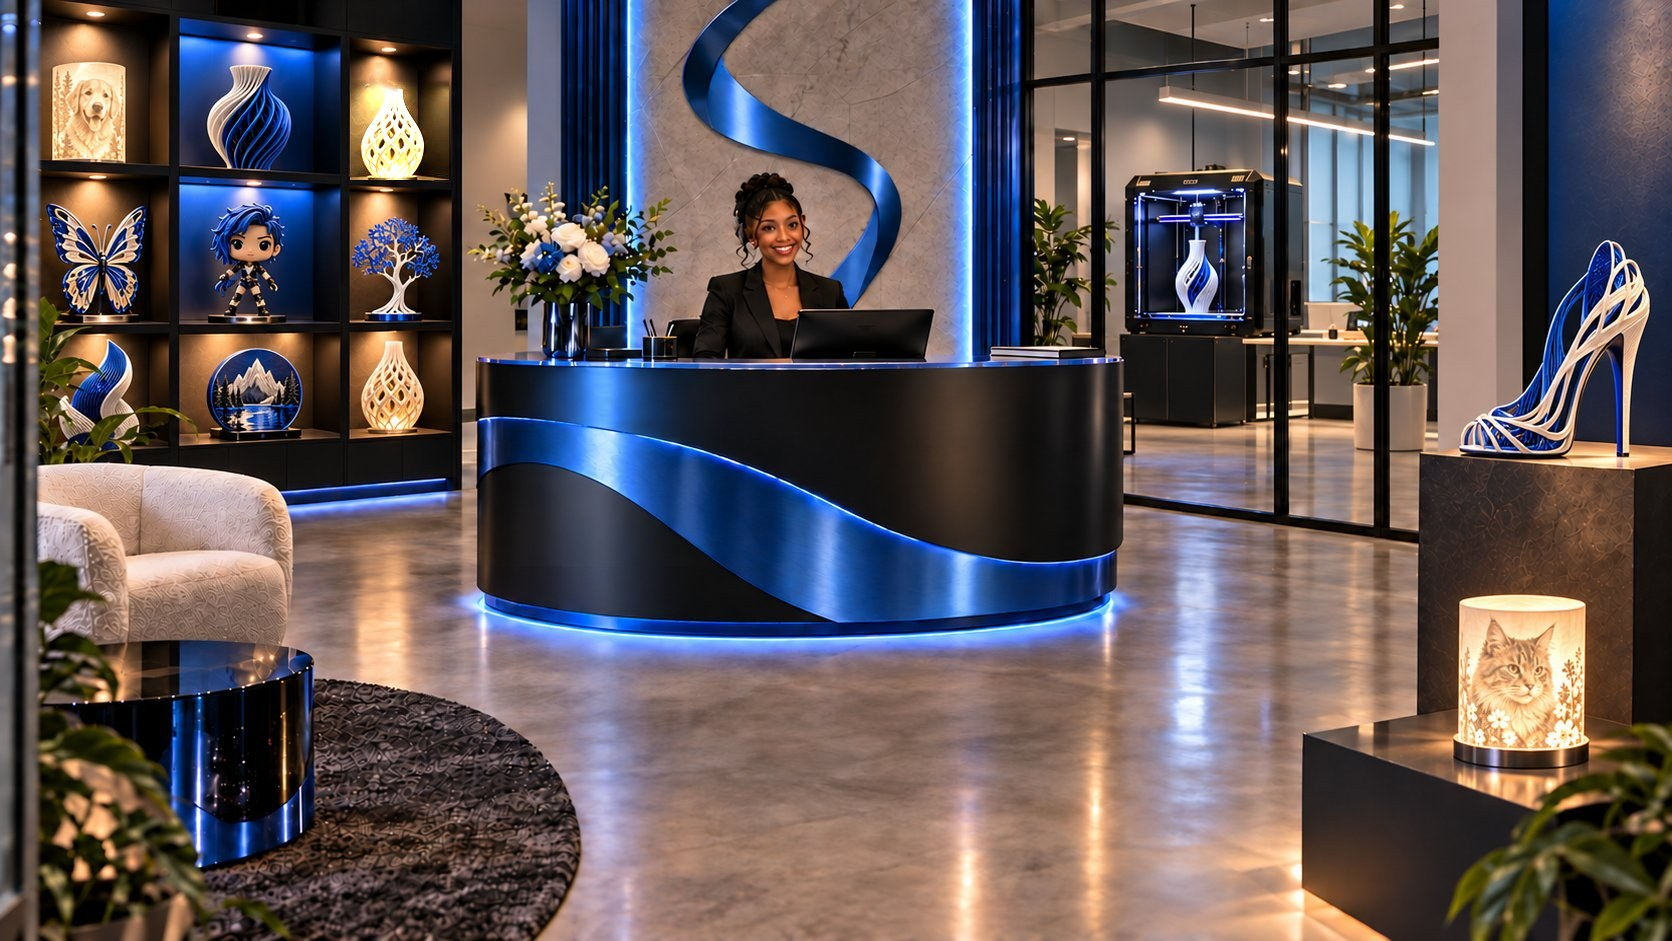
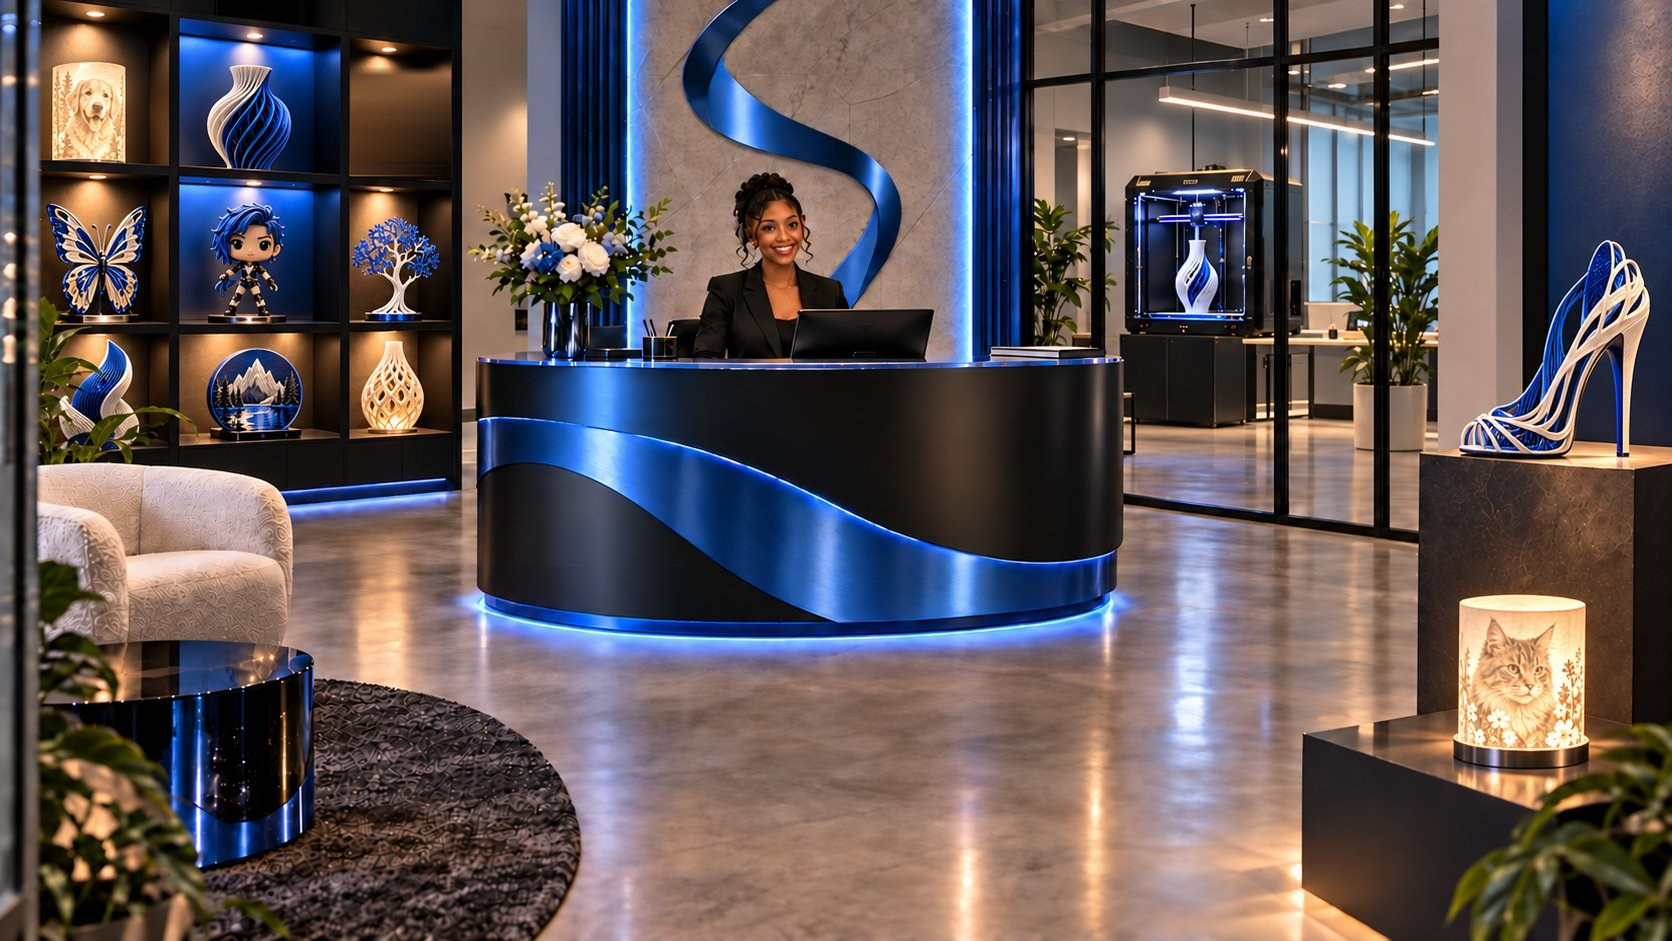
Allure Fusions: empty the shelf cell (no duplicate vase), lower desk title

Changed region(s): [[0.1866, 0.0616, 0.2799, 0.2157]]

diff --git a/suites/styles.css b/suites/styles.css
@@ -351,7 +351,7 @@ body{-webkit-font-smoothing:antialiased;-moz-osx-font-smoothing:grayscale}
 /* Owner choice: desks show the business title only; taglines are hidden (remove this line to show them). */
 .suite-sign p{display:none!important}
 .reception-scene[data-suite="217"]{--desk-y:56%;--sign-w:min(35%,560px)}
-.reception-scene[data-suite="305"]{--desk-x:57%;--desk-y:42.5%;--sign-w:17%}
+.reception-scene[data-suite="305"]{--desk-x:57%;--desk-y:45%;--sign-w:17%}
 .reception-scene[data-suite="412"]{--desk-x:42%;--desk-y:51%;--sign-w:24%}
 .suite-plaque{position:absolute;z-index:3;left:50%;bottom:3%;transform:translateX(-50%);padding:.5rem 1rem;background:rgba(10,9,12,.82);border:1px solid var(--suite-accent);color:var(--suite-accent);font-size:.6rem;letter-spacing:.22em;white-space:nowrap}
 @media (max-width:560px){.suite-sign{top:4%!important;transform:translateX(-50%);width:92%;background:rgba(10,9,12,.55);padding:.6rem .8rem}.suite-plaque{display:none}}

diff --git a/build/fix_fusions.py b/build/fix_fusions.py
@@ -1,49 +1,46 @@
-# Removes the duplicate heel from the Allure Fusions shelf (top-right cell)
-# by placing a copy of the white lattice vase from the lower shelf there.
-# The large heel by the entrance stays as the feature piece.
+# Removes the duplicate heel from the Allure Fusions shelf (top-right cell).
+# The large heel by the entrance stays as the feature piece. The shelf cell is
+# left empty with its warm backlight (no copied object, so nothing repeats).
 # Usage: python build/fix_fusions.py src/img-original/allure-fusions.jpg img/allure-fusions.jpg
+#
+# Each row of the cell is rebuilt by blending the cell's own left and right
+# edges (smooth lighting), with the original spotlight glow kept on top.
 import sys
 import cv2
 import numpy as np
 
 src, out = sys.argv[1], sys.argv[2]
 img = cv2.imread(src)
-s = img.shape[1] / 1672  # coordinates below are for the 1672px-wide image
+s = img.shape[1] / 1672
 
 def px(v):
     return int(round(v * s))
 
-# Lower-right cell holding the lattice vase, and the matching area of the heel cell.
-x0, x1 = px(350), px(449)
-sy0, sy1 = px(331), px(432)
-ty1 = px(180)
-ty0 = ty1 - (sy1 - sy0)
-patch = img[sy0:sy1, x0:x1].astype(np.float32)
-dest = img[ty0:ty1, x0:x1].astype(np.float32)
+x0, x1 = px(351), px(447)        # inside of the shelf cell
+y0, y1 = px(66), px(180)         # from under the spotlight down to the shelf surface
+edge = px(5)
+res = img.copy().astype(np.float32)
+left = img[y0:y1, x0:x0 + edge].astype(np.float32).mean(1)    # (rows, 3)
+right = img[y0:y1, x1 - edge:x1].astype(np.float32).mean(1)
+t = np.linspace(0, 1, x1 - x0)[None, :, None]
+fill = left[:, None, :] * (1 - t) + right[:, None, :] * t
 
-# The upper cell is lit more brightly; match the copy's overall level to it,
-# using the wall at the top-left of each cell (no objects there).
-ref_src = patch[4:20, 4:14].reshape(-1, 3).mean(0)
-ref_dst = dest[4:20, 4:14].reshape(-1, 3).mean(0)
-patch *= np.clip(ref_dst / np.maximum(ref_src, 1), 0.7, 1.6)
+# Keep the soft center glow from the spotlight: brighten the middle a little,
+# fading toward the bottom, matching the lit empty cells elsewhere.
+cx = (x1 - x0) / 2
+xs = np.arange(x1 - x0)[None, :]
+ys = np.arange(y1 - y0)[:, None]
+glow = np.exp(-((xs - cx) / ((x1 - x0) * 0.45)) ** 2) * np.clip(1 - ys / (y1 - y0), 0, 1)
+fill *= (1 + 0.12 * glow)[..., None]
 
-# Soft top edge so the copy fades into the wall above; hard edges elsewhere
-# line up with the shelf frame.
-alpha = np.ones(patch.shape[:2], np.float32)
-fade = px(10)
-alpha[:fade] = np.linspace(0, 1, fade)[:, None]
-res = img.copy()
-res[ty0:ty1, x0:x1] = (patch * alpha[..., None] + dest * (1 - alpha[..., None])).clip(0, 255).astype(np.uint8)
+# Light grain so the wall doesn't look airbrushed.
+rng = np.random.default_rng(7)
+fill += rng.normal(0, 2.0, fill.shape)
 
-# Clear whatever of the heel still shows above the copy.
-top = np.zeros(img.shape[:2], np.uint8)
-y_a, y_b = px(60), ty0 + fade
-cell = res[y_a:y_b, x0:x1]
-hsv = cv2.cvtColor(cell, cv2.COLOR_BGR2HSV)
-heel = ((hsv[..., 1] < 70) & (hsv[..., 2] > 170)) | ((hsv[..., 0] > 100) & (hsv[..., 0] < 130) & (hsv[..., 1] > 80))
-top[y_a:y_b, x0:x1][heel] = 255
-top = cv2.dilate(top, np.ones((7, 7), np.uint8))
-res = cv2.inpaint(res, top, 7, cv2.INPAINT_TELEA)
-
-cv2.imwrite(out, res, [cv2.IMWRITE_JPEG_QUALITY, 88])
+# Feather the top edge into the original spotlight area.
+alpha = np.ones((y1 - y0, x1 - x0, 1), np.float32)
+f = px(10)
+alpha[:f] = np.linspace(0, 1, f)[:, None, None]
+res[y0:y1, x0:x1] = fill * alpha + res[y0:y1, x0:x1] * (1 - alpha)
+cv2.imwrite(out, res.clip(0, 255).astype(np.uint8), [cv2.IMWRITE_JPEG_QUALITY, 88])
 print('fixed', out)
